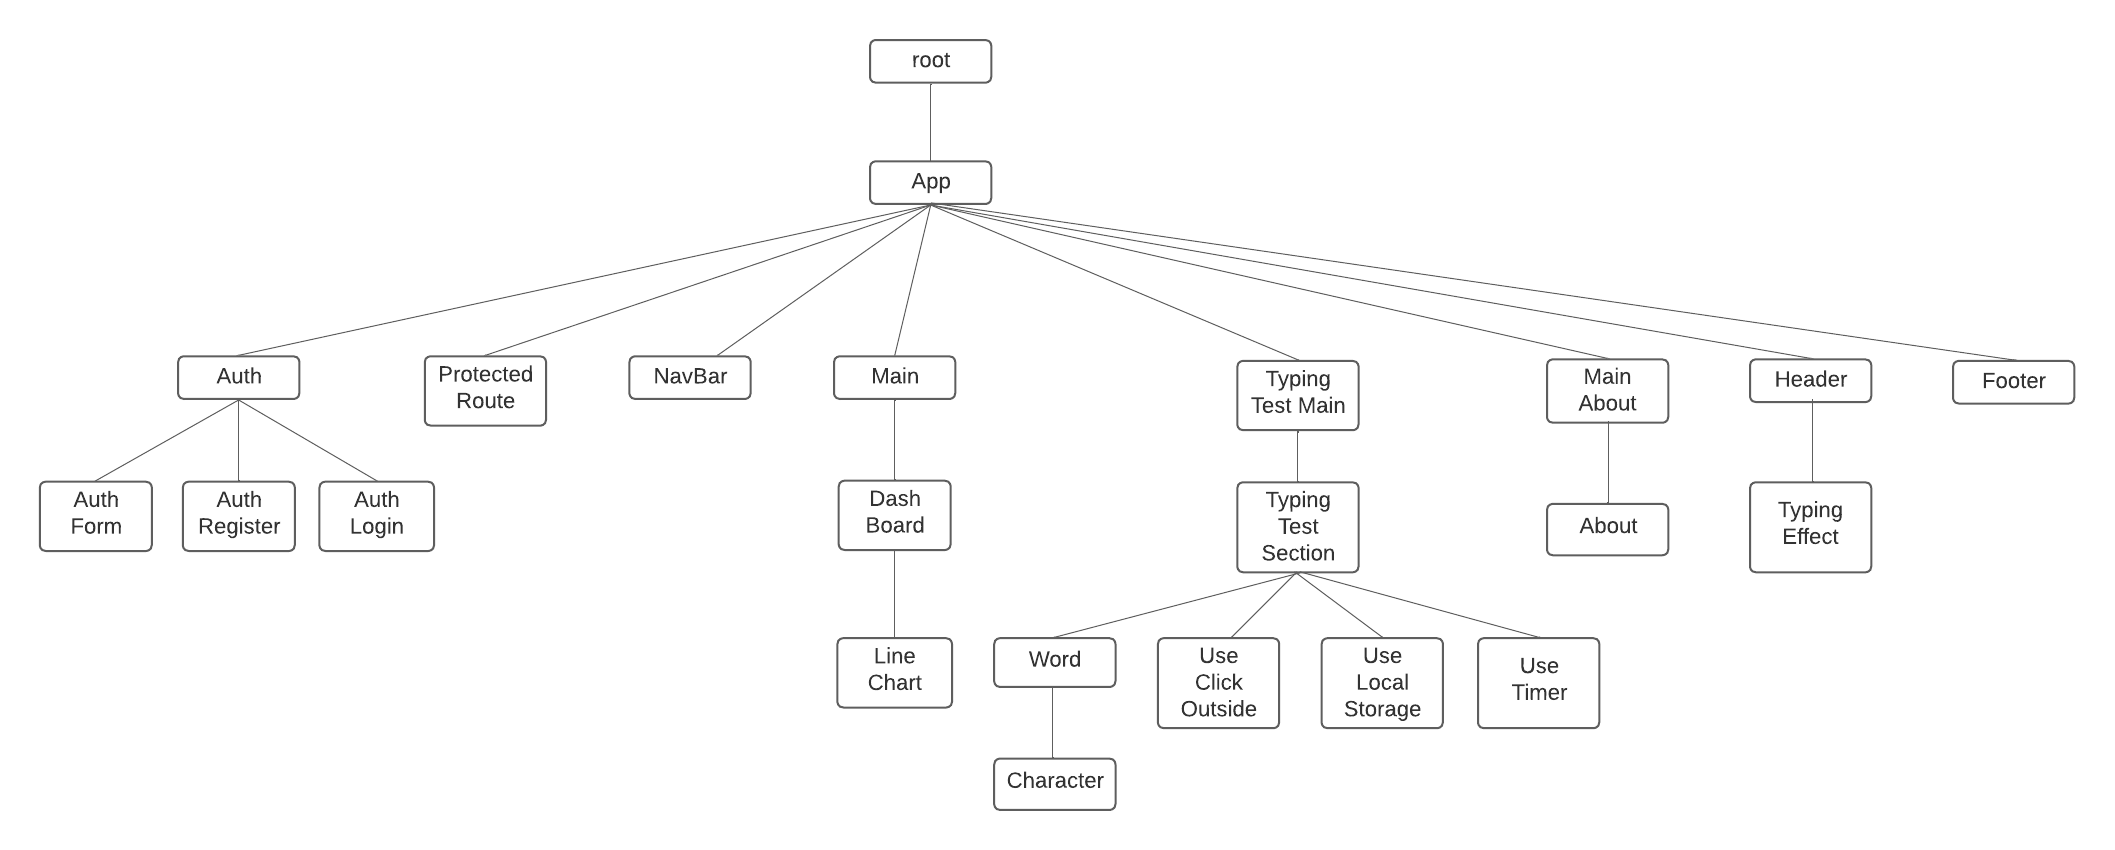
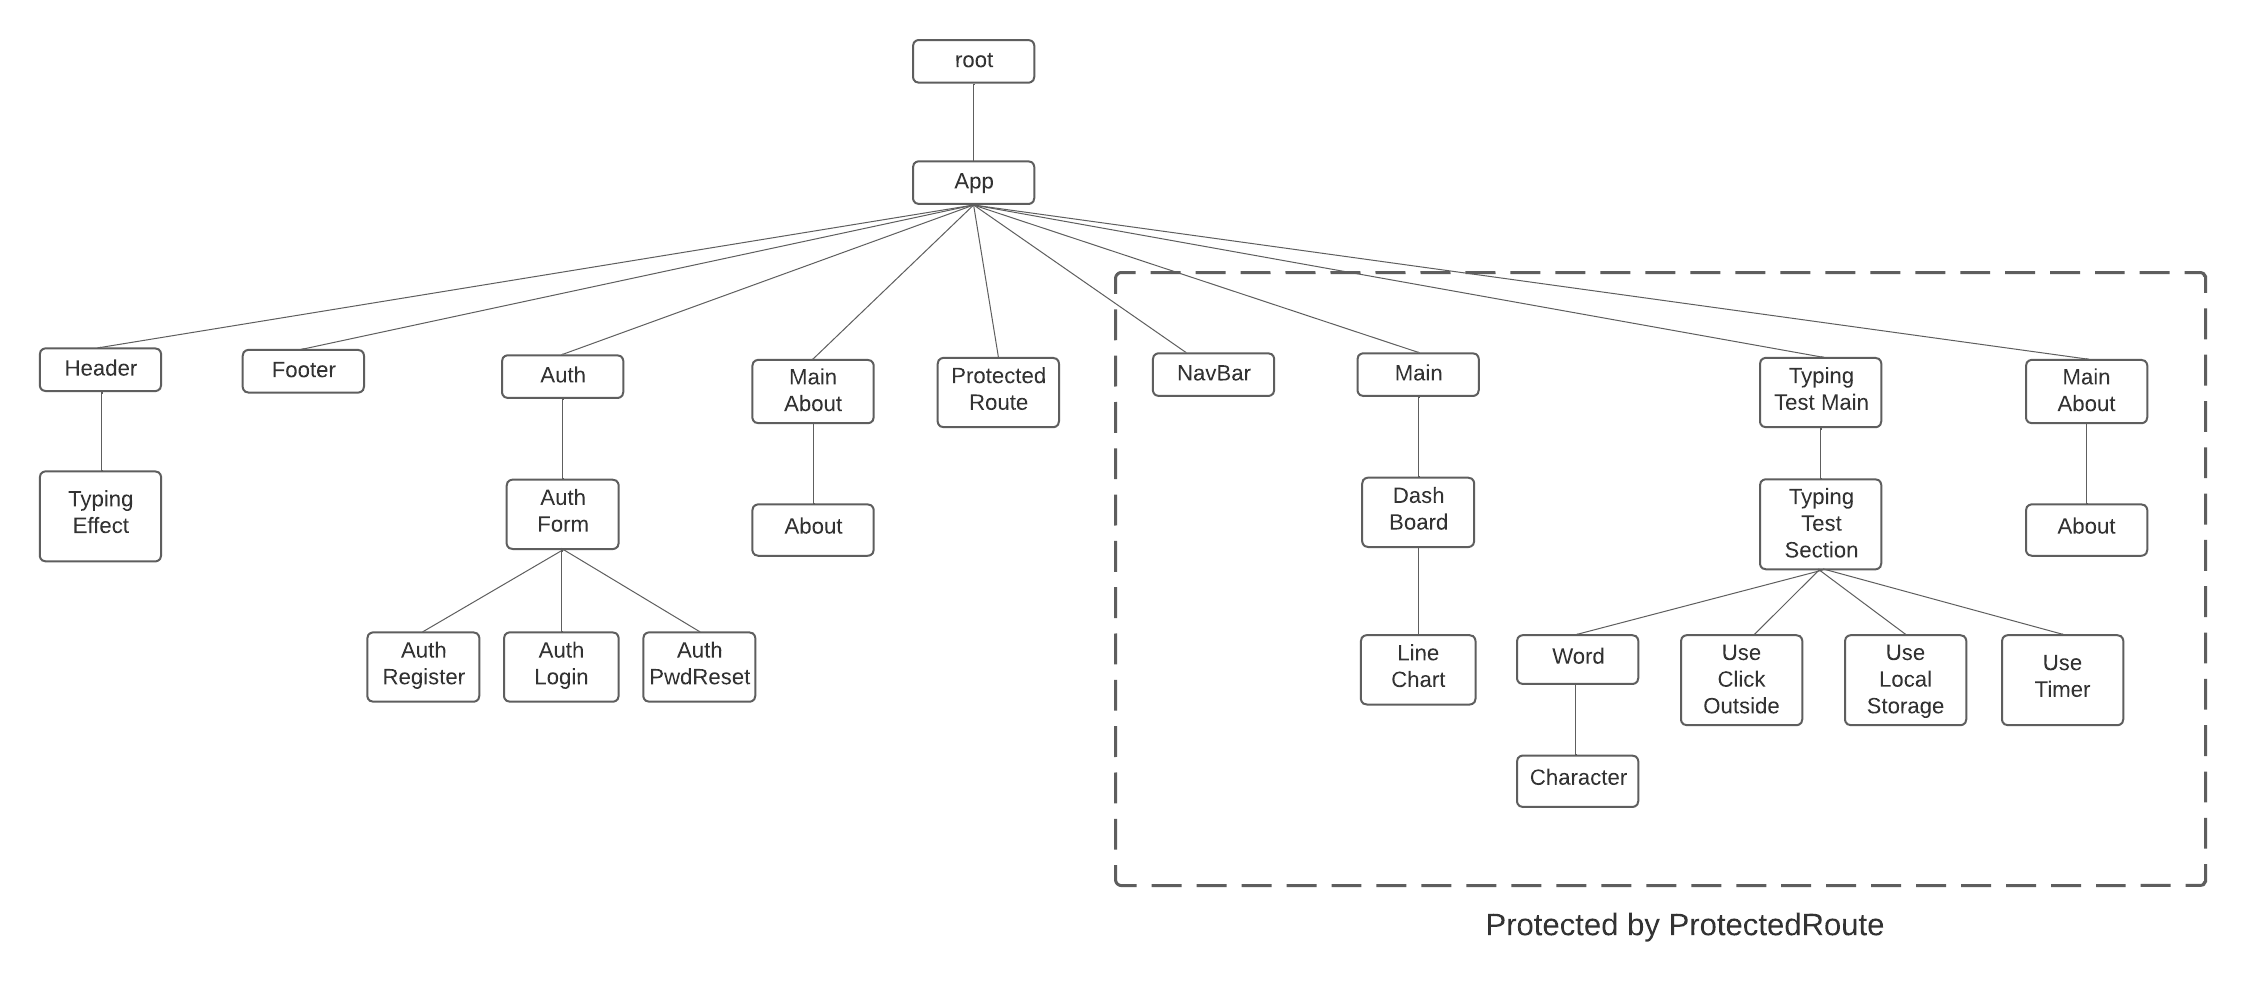
add fogort password component and updated component tree

diff --git a/src/Components/Auth/AuthForm.js b/src/Components/Auth/AuthForm.js
@@ -1,13 +1,13 @@
 import React from "react";
 import { Link } from "react-router-dom";
 
-const AuthForm = ({ user, isLogin, onChange, onSubmit }) => {
+const AuthForm = ({ user, isLogin, onChange, onSubmit, forgotPwd }) => {
   // Display register form
   if (!isLogin) {
     return (
       <div>
         <div className="register-form">
-          <form onSubmit={onSubmit} autoComplete="off">
+          <form onSubmit={onChange} autoComplete="off">
             <div className="form-group">
               <br />
               <input
@@ -87,11 +87,7 @@ const AuthForm = ({ user, isLogin, onChange, onSubmit }) => {
             </div>
             <br />
             <div className="form-group">
-              <button
-                type="submit"
-                className="authButton"
-                onSubmit={onSubmit}
-              >
+              <button type="submit" className="authButton" onSubmit={onSubmit}>
                 Sign Up
               </button>
               <p className="authSubtext">
@@ -103,56 +99,97 @@ const AuthForm = ({ user, isLogin, onChange, onSubmit }) => {
       </div>
     );
   } else {
-    // Otherwise, display login form
-    return (
-      <div>
-        <div className="login-form">
-          <form onSubmit={onSubmit} autoComplete="off">
-            <div className="form-group">
+    if (!forgotPwd) {
+      // Otherwise, display login form
+      return (
+        <div>
+          <div className="login-form">
+            <form onSubmit={onChange} autoComplete="off">
+              <div className="form-group">
+                <br />
+                <input
+                  type="text"
+                  className="form-control"
+                  id="username-input"
+                  value={user.email}
+                  onChange={onChange}
+                  name="username"
+                  placeholder="username"
+                  required
+                />
+              </div>{" "}
+              <div className="form-group">
+                <br />
+                <input
+                  type="password"
+                  className="form-control"
+                  id="password-input"
+                  value={user.password}
+                  onChange={onChange}
+                  name="password"
+                  placeholder="password"
+                  min="0"
+                  required
+                />
+              </div>
               <br />
-              <input
-                type="text"
-                className="form-control"
-                id="username-input"
-                value={user.email}
-                onChange={onChange}
-                name="username"
-                placeholder="username"
-                required
-              />
-            </div>{" "}
-            <div className="form-group">
-              <br />
-              <input
-                type="password"
-                className="form-control"
-                id="password-input"
-                value={user.password}
-                onChange={onChange}
-                name="password"
-                placeholder="password"
-                min="0"
-                required
-              />
-            </div>
-            <br />
-            <div className="form-group">
-              <button
-                type="submit"
-                className="authButton"
-                onSubmit={onSubmit}
-              >
-                Sign In
-              </button>
-              <p className="authSubtext">
-                Don't have an account?{" "}
-                <Link to="/register">Create an Account</Link>
-              </p>
-            </div>
-          </form>
+              <div className="form-group">
+                <button
+                  type="submit"
+                  className="authButton"
+                  onSubmit={onSubmit}
+                >
+                  Sign In
+                </button>
+                <p className="authSubtext">
+                  <Link to="/reset-password">Forgot Password?</Link>
+                </p>
+                <p className="authSubtext">
+                  Don't have an account?{" "}
+                  <Link to="/register">Create an Account</Link>
+                </p>
+              </div>
+            </form>
+          </div>
         </div>
-      </div>
-    );
+      );
+    }
+    // display forgot password form
+    else {
+      return (
+        <div>
+          <div className="login-form">
+            <form onSubmit={onSubmit}>
+              <div className="form-group">
+                <br />
+                <input
+                  type="email"
+                  className="form-control"
+                  id="email-input"
+                  value={user.email}
+                  onChange={onChange}
+                  name="email"
+                  placeholder="email"
+                />
+              </div>{" "}
+              <br />
+              <div className="form-group">
+                <button
+                  type="submit"
+                  className="authButton"
+                  onSubmit={onSubmit}
+                >
+                  Send Reset Link
+                </button>
+                <p className="authSubtext">
+                  Remember your password? <Link to="/login">Sign In</Link>
+                </p>
+              </div>
+            </form>
+          </div>
+        </div>
+      );
+    }
   }
 };
 

diff --git a/src/Components/Auth/AuthPwdRest.js b/src/Components/Auth/AuthPwdRest.js
@@ -1,0 +1,64 @@
+import React, { useState, useEffect } from "react";
+import { useNavigate } from "react-router-dom";
+import AuthForm from "./AuthForm";
+import Header from "../Header/Header";
+import Footer from "../Footer/Footer";
+import ErrorMessage from "./ErrorMessage";
+import { requestPasswordReset, checkUser, getUser } from "../../Common/Services/AuthService";
+import "../../Common/Styles/AuthForm.css";
+
+const AuthPwdReset = () => {
+  const navigate = useNavigate();
+  // redirect already authenticated users back to home
+  const [currentUser, setCurrentUser] = useState({
+    username: "",
+    password: "",
+  });
+
+  useEffect(() => {
+    if (checkUser()) {
+      //alert("You are already logged in");
+      const username = getUser().get("username");
+      navigate(`/${username}/main`);
+    }
+  }, [navigate]);
+
+  const [email, setEmail] = useState("");
+  const [message, setMessage] = useState("");
+
+  const onChangeHandler = (e) => {
+    setEmail(e.target.value);
+  };
+
+  const onSubmitHandler = async (e) => {
+    e.preventDefault();
+
+    try {
+      await requestPasswordReset(email);
+      // Password reset request successful
+      setMessage(
+        "Password reset link has been sent to your email. Please check your inbox."
+      );
+    } catch (error) {
+      setMessage(`Error: ${error.message}`);
+    }
+  };
+
+  return (
+    <div>
+      <Header />
+      <h1 className="header-form">reset password</h1>
+      <ErrorMessage message={message} />
+      <AuthForm
+        user={currentUser}
+        isLogin={true}
+        onChange={onChangeHandler}
+        onSubmit={onSubmitHandler}
+        forgotPwd={true}
+      />
+      <Footer />
+    </div>
+  );
+};
+
+export default AuthPwdReset;

diff --git a/src/Common/Services/AuthService.js b/src/Common/Services/AuthService.js
@@ -19,14 +19,12 @@ export const createUser = (newUser, setError) => {
     user.set("email", email);
 
     console.log("User: ", user);
-    return user
-      .signUp()
-      .then((newUserSaved) => {
-        return newUserSaved;
-      })
-      /*.catch((error) => {
+    return user.signUp().then((newUserSaved) => {
+      return newUserSaved;
+    });
+    /*.catch((error) => {
         alert(`Error: ${error.message}`);
-      })*/;
+      })*/
   }
 };
 
@@ -39,14 +37,12 @@ export const loginUser = (currUser) => {
 
   console.log("User: ", user);
   console.log();
-  return user
-    .logIn(user.username, user.password)
-    .then((currUserSaved) => {
-      return currUserSaved;
-    })
-    /*.catch((error) => {
+  return user.logIn(user.username, user.password).then((currUserSaved) => {
+    return currUserSaved;
+  });
+  /*.catch((error) => {
       alert(`Error here: ${error.message}`);
-    })*/;
+    })*/
 };
 
 // used to check authentication
@@ -68,8 +64,18 @@ export const logoutUser = (navigate) => {
     })
     .then(() => {
       navigate("/");
-    })
-    /*.catch((error) => {
+    });
+  /*.catch((error) => {
       alert(`Error: ${error.message}`);
     });*/
+};
+
+// send a password reset request to Parse
+export const requestPasswordReset = async (email) => {
+  try {
+    await Parse.User.requestPasswordReset(email);
+    return true; // Password reset request was successful
+  } catch (error) {
+    throw new Error(`Error: ${error.message}`);
+  }
 };

diff --git a/src/Components/Components.js b/src/Components/Components.js
@@ -8,6 +8,7 @@ import {
 import AuthModule from "./Auth/Auth";
 import AuthRegister from "./Auth/AuthRegister";
 import AuthLogin from "./Auth/AuthLogin";
+import AuthPwdReset from "./Auth/AuthPwdRest";
 import ProtectedRoute from "./ProtectedRoute/ProtectedRoute";
 import MainModule from "./Main/Main";
 import AboutModule from "./About/MainAbout";
@@ -23,6 +24,7 @@ export default function Components() {
         <Route path="/" element={<AuthModule />} />
         <Route path="/register" element={<AuthRegister />} />
         <Route path="/login" element={<AuthLogin />} />
+        <Route path="/reset-password" element={<AuthPwdReset />} />
         <Route path="/:username/main" element={<ProtectedRoute path="/:username/main" element={MainModule} />} />
         <Route path="/:username/typing-test" element={<ProtectedRoute path="/:username/typing-test" element={TypingTestMain}/>}/>
         <Route path="/:username/about" element={<ProtectedRoute path="/:username/about" element={AboutModule} />} />

diff --git a/src/Components/Auth/AuthRegister.js b/src/Components/Auth/AuthRegister.js
@@ -81,6 +81,7 @@ const AuthRegister = () => {
         user={newUser}
         onChange={onChangeHandler}
         onSubmit={onSubmitHandler}
+        forgotPwd={false}
       />
       <Footer />
     </div>

diff --git a/src/Components/Auth/AuthLogin.js b/src/Components/Auth/AuthLogin.js
@@ -80,6 +80,7 @@ const AuthLogin = () => {
         isLogin={true}
         onChange={onChangeHandler}
         onSubmit={onSubmitHandler}
+        forgotPwd={false}
       />
       <Footer />
     </div>

diff --git a/CHANGELOG.md b/CHANGELOG.md
@@ -4,13 +4,17 @@ All notable changes to this project will be documented in this file.
 The format is based on [Keep a Changelog](http://keepachangelog.com/)
 and this project adheres to [Semantic Versioning](http://semver.org/).
 
+## [0.5.0] - 2023-07-22
+
+* Added Forgot Password component and updated component tree diagram
+
 ## [0.4.0] - 2023-07-20
 
-* About section to provide information about its purpose, features, and statistics terminologies. 
+* About section to provide information about its purpose, features, and statistics terminologies
 
-* Dashboard displays users’ typing test statistics (speed and accuracy) through graphs. 
+* Dashboard displays users’ typing test statistics (speed and accuracy) through graphs
 
-* Users can take typing tests with 30 random words in their selected programming language to measure their speed and accuracy. Users can interrupt and continue the ongoing typing test.
+* Users can take typing tests with 30 random words in their selected programming language to measure their speed and accuracy. Users can interrupt and continue the ongoing typing test
 
 
 ## [0.3.0] - 2023-07-08
